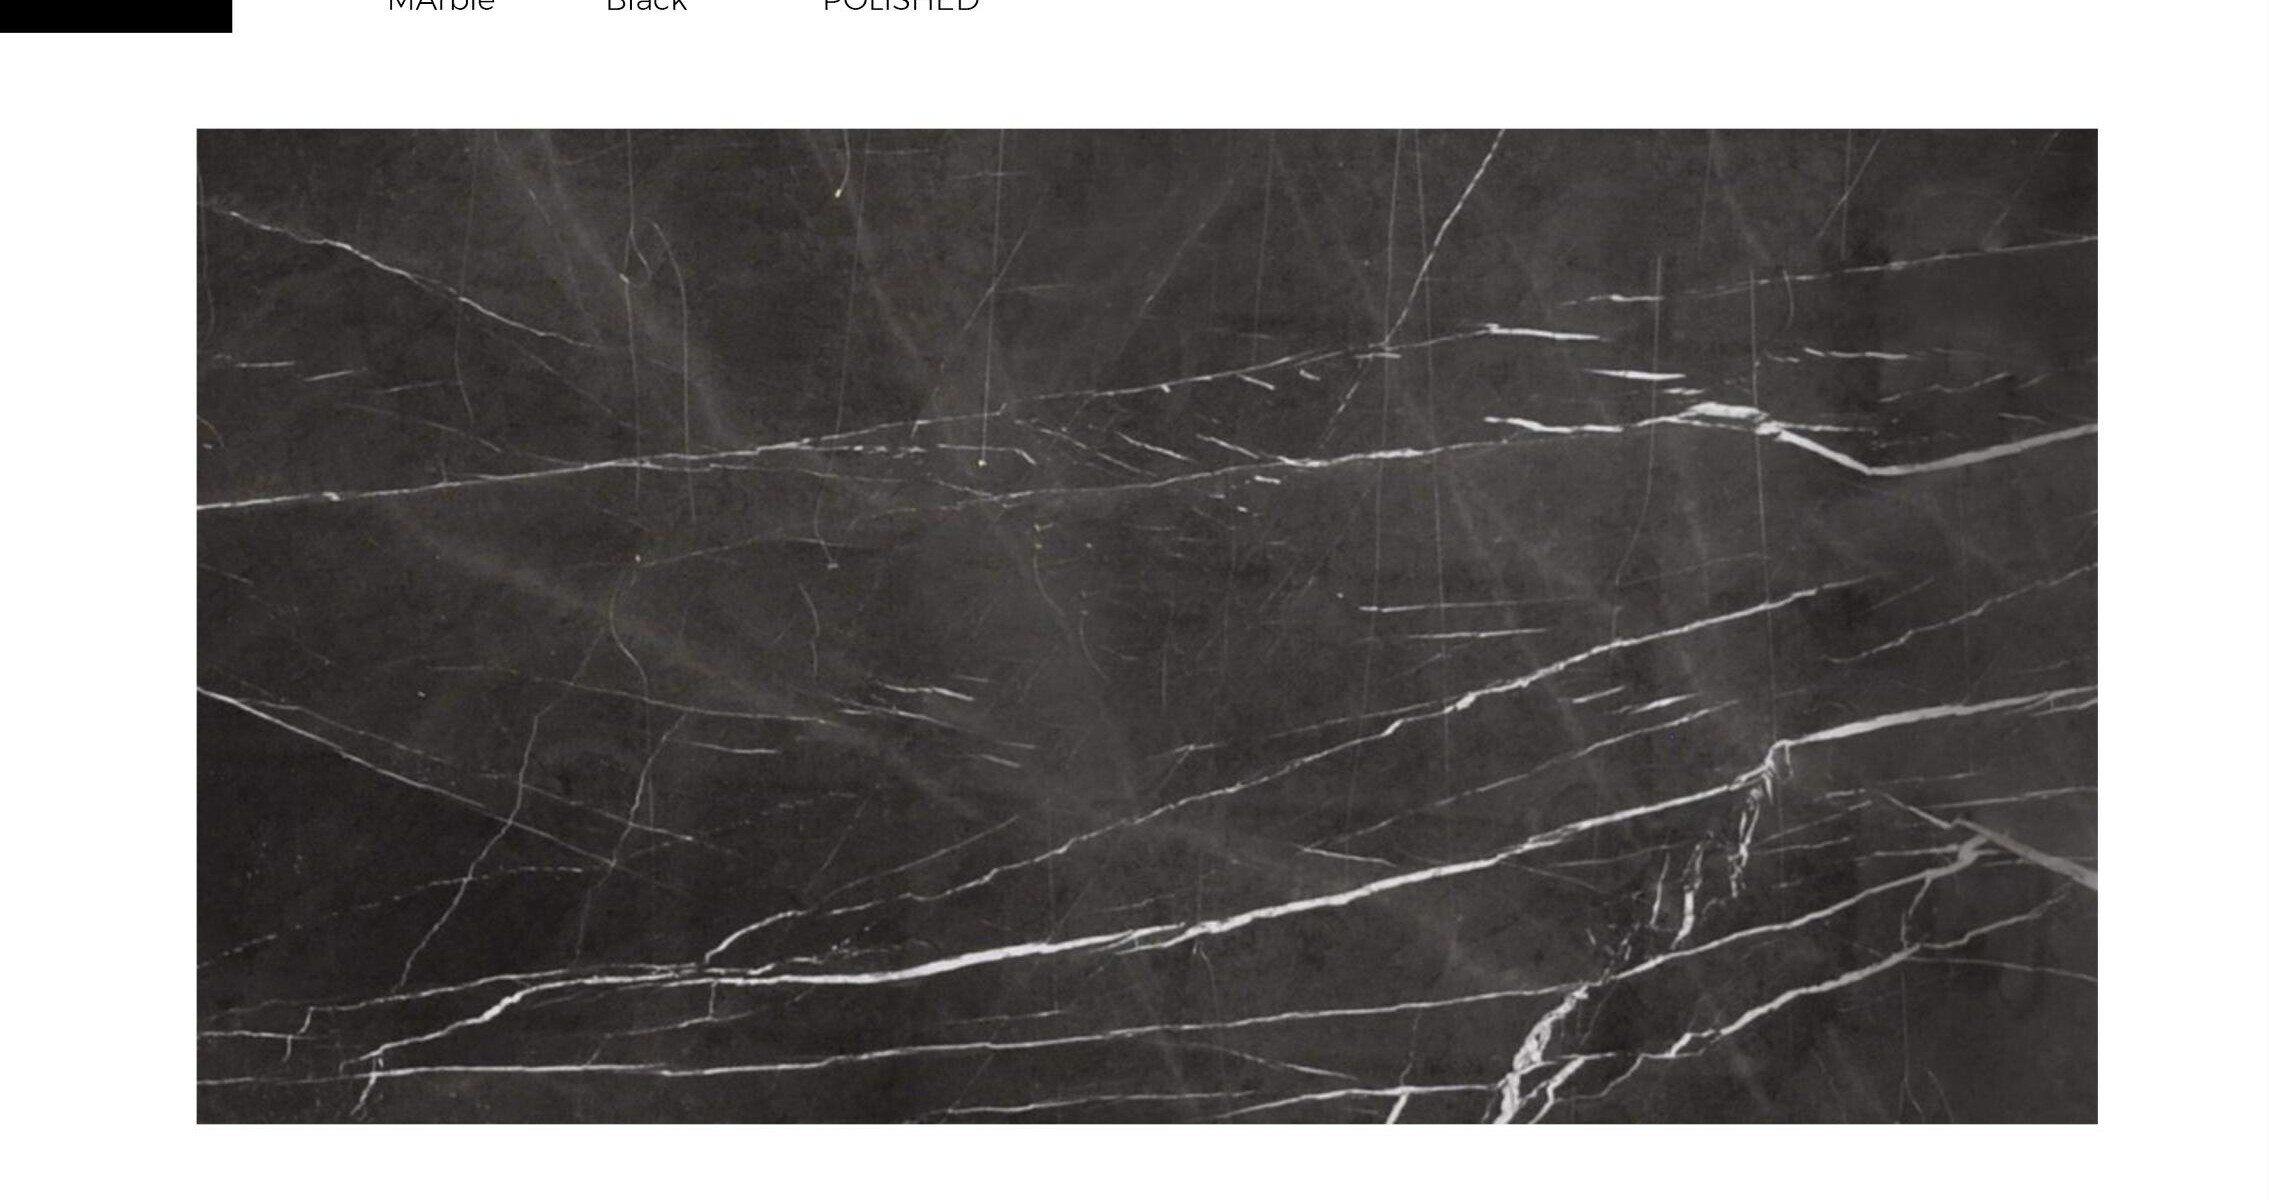
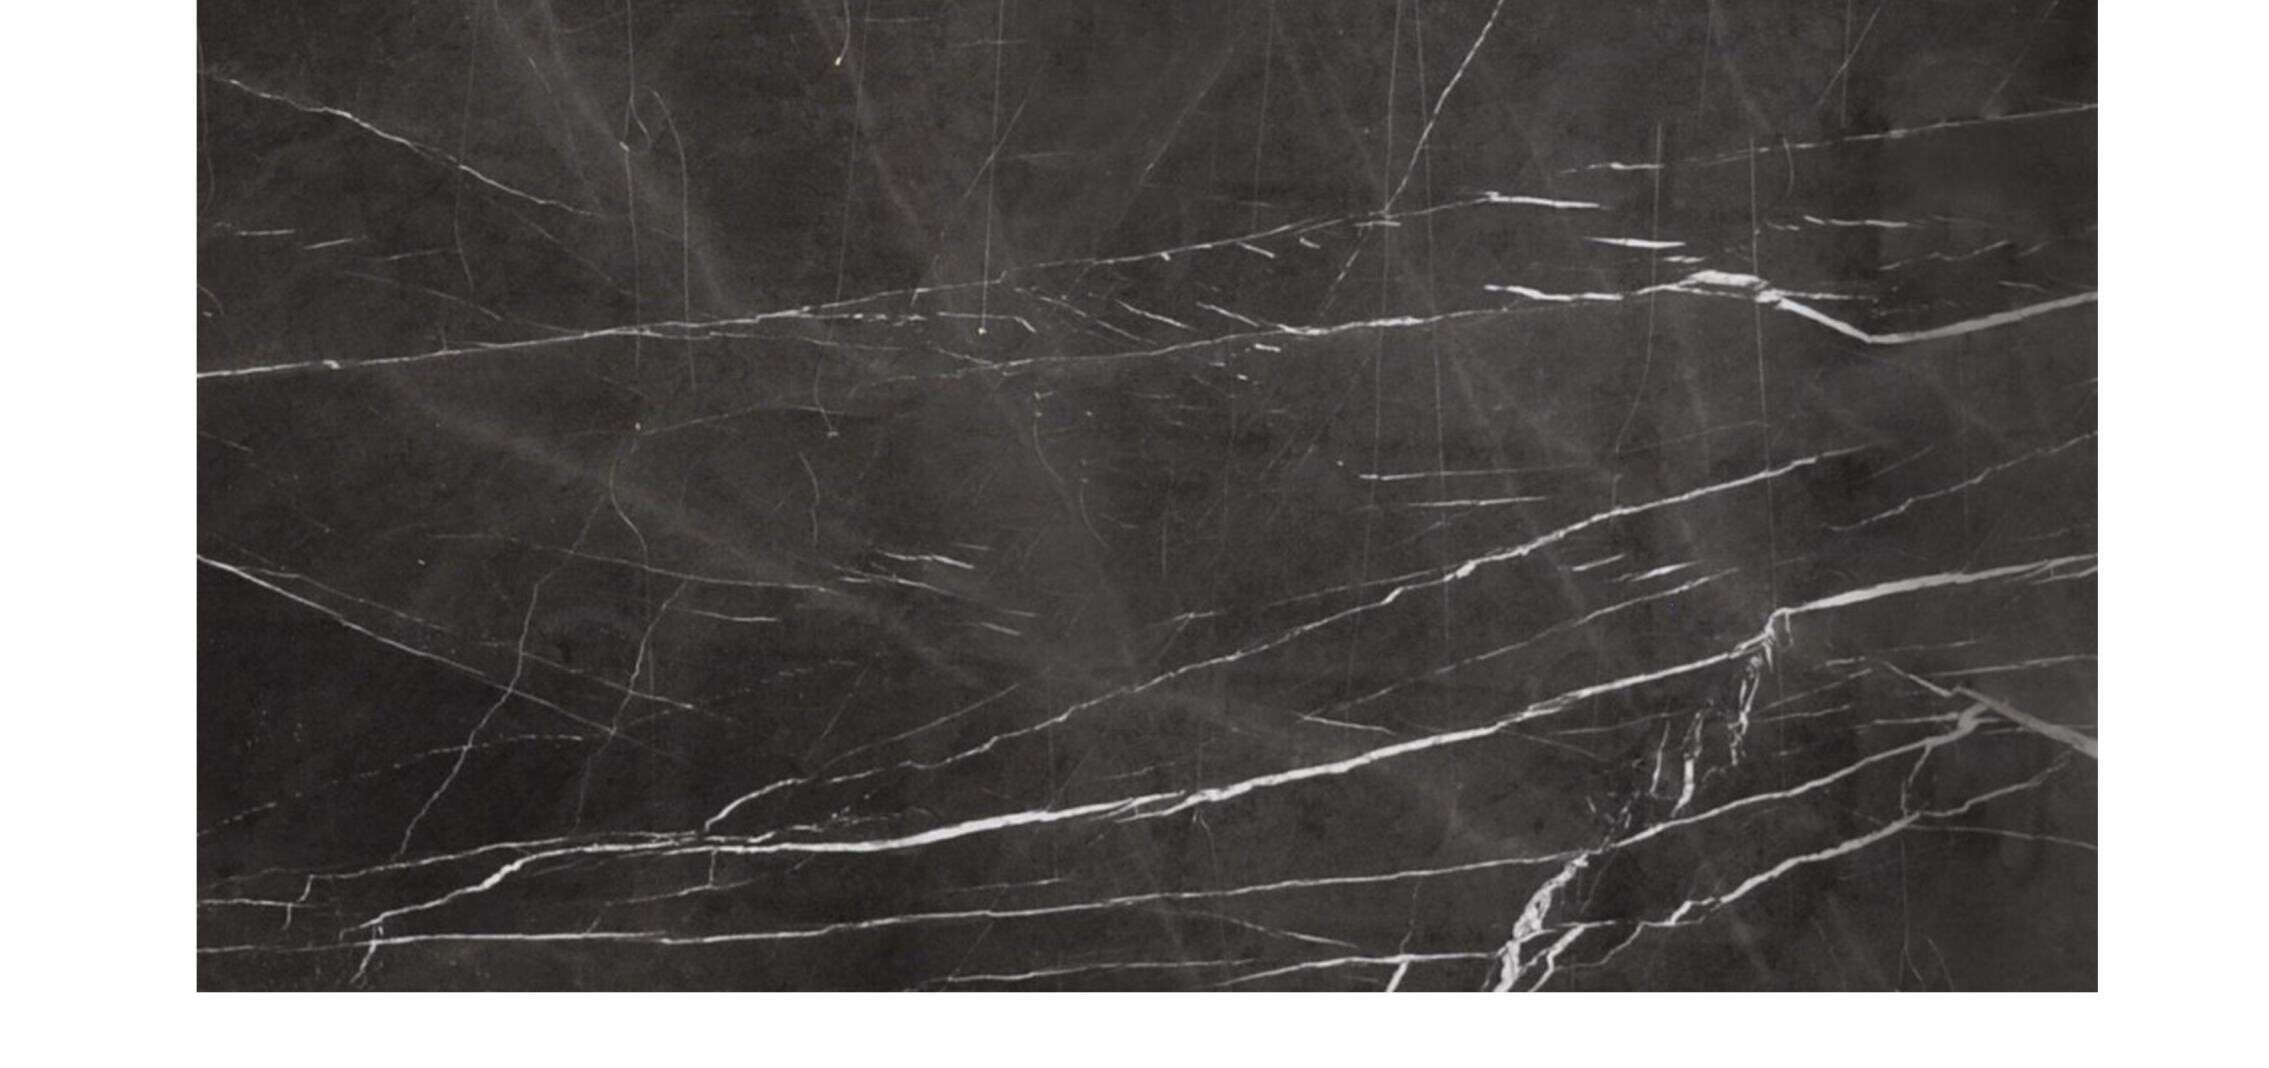
Add files via upload

diff --git a/index.html b/index.html
@@ -65,6 +65,7 @@
     align-items:center;
     justify-content:space-between;
     padding:28px clamp(24px, 5vw, 64px);
+    background: linear-gradient(180deg, oklch(0.06 0.006 240 / 0.6) 0%, oklch(0.06 0.006 240 / 0.25) 65%, transparent 100%);
     transition: background 0.4s var(--ease), padding 0.4s var(--ease), border-color 0.4s var(--ease);
     border-bottom: 1px solid transparent;
   }
@@ -78,6 +79,7 @@
     font-family:var(--serif);
     font-size:1.15rem;
     letter-spacing:0.02em;
+    text-shadow: 0 2px 12px oklch(0 0 0 / 0.5);
   }
   .nav__mark span{ color:var(--teal-bright); }
   .nav__cta{
@@ -101,8 +103,11 @@
   .hero__bg{
     position:absolute;
     inset:-6% 0 -6% 0;
-    background: linear-gradient(180deg, oklch(0.08 0.006 240 / 0.35) 0%, oklch(0.08 0.006 240 / 0.55) 55%, var(--bg-deep) 100%), url('hero-onyx.jpg') center 32% / cover no-repeat;
+    background: linear-gradient(180deg, oklch(0.08 0.006 240 / 0.55) 0%, oklch(0.08 0.006 240 / 0.62) 45%, var(--bg-deep) 100%), url('hero-onyx.jpg') center 32% / cover no-repeat;
     will-change:transform;
+  }
+  @media (max-width: 640px){
+    .hero__bg{ inset:0; }
   }
   .hero__inner{
     position:relative;
@@ -123,6 +128,7 @@
     max-width:46ch;
     font-size:clamp(1rem, 1.4vw, 1.2rem);
     color:var(--ink-dim);
+    text-shadow: 0 2px 16px oklch(0 0 0 / 0.5);
     font-weight:300;
     opacity:0;
     transform:translateY(10px);
@@ -790,7 +796,7 @@
       hero.classList.add('is-loaded');
     });
 
-    if (!reduced && heroBg){
+    if (!reduced && heroBg && window.innerWidth > 640){
       window.addEventListener('scroll', function(){
         var y = window.scrollY;
         if (y < window.innerHeight * 1.2){

diff --git a/reserve.html b/reserve.html
@@ -58,12 +58,12 @@
     position:relative;
     height:clamp(280px, 34vw, 420px);
     display:flex; align-items:center; justify-content:center; text-align:center;
-    background: linear-gradient(180deg, oklch(0.08 0.006 240 / 0.55) 0%, oklch(0.06 0.006 240 / 0.82) 100%), url('cta-darkmarble.jpg') center / cover no-repeat;
+    background: linear-gradient(180deg, oklch(0.06 0.006 240 / 0.72) 0%, oklch(0.06 0.006 240 / 0.88) 100%), url('cta-darkmarble.jpg') center / cover no-repeat;
   }
   .rsv-hero__inner{ max-width:700px; padding:0 24px; }
-  .kicker{ font-size:0.78rem; letter-spacing:0.05em; color:var(--teal-bright); margin-bottom:16px; }
-  .rsv-hero h1{ font-size:clamp(2rem, 4.6vw, 3.4rem); color:oklch(0.99 0.004 90); }
-  .rsv-hero p{ margin-top:16px; color:var(--ink-dim); font-size:1.02rem; max-width:52ch; margin-inline:auto; }
+  .kicker{ font-size:0.78rem; letter-spacing:0.05em; color:var(--teal-bright); margin-bottom:16px; text-shadow: 0 2px 12px oklch(0 0 0 / 0.6); }
+  .rsv-hero h1{ font-size:clamp(2rem, 4.6vw, 3.4rem); color:oklch(0.99 0.004 90); text-shadow: 0 2px 16px oklch(0 0 0 / 0.5); }
+  .rsv-hero p{ margin-top:16px; color:var(--ink-dim); font-size:1.02rem; max-width:52ch; margin-inline:auto; text-shadow: 0 2px 14px oklch(0 0 0 / 0.5); }
 
   .rsv-body{ padding:clamp(60px,8vw,100px) 0 clamp(80px,10vw,140px); }
   .rsv-grid{